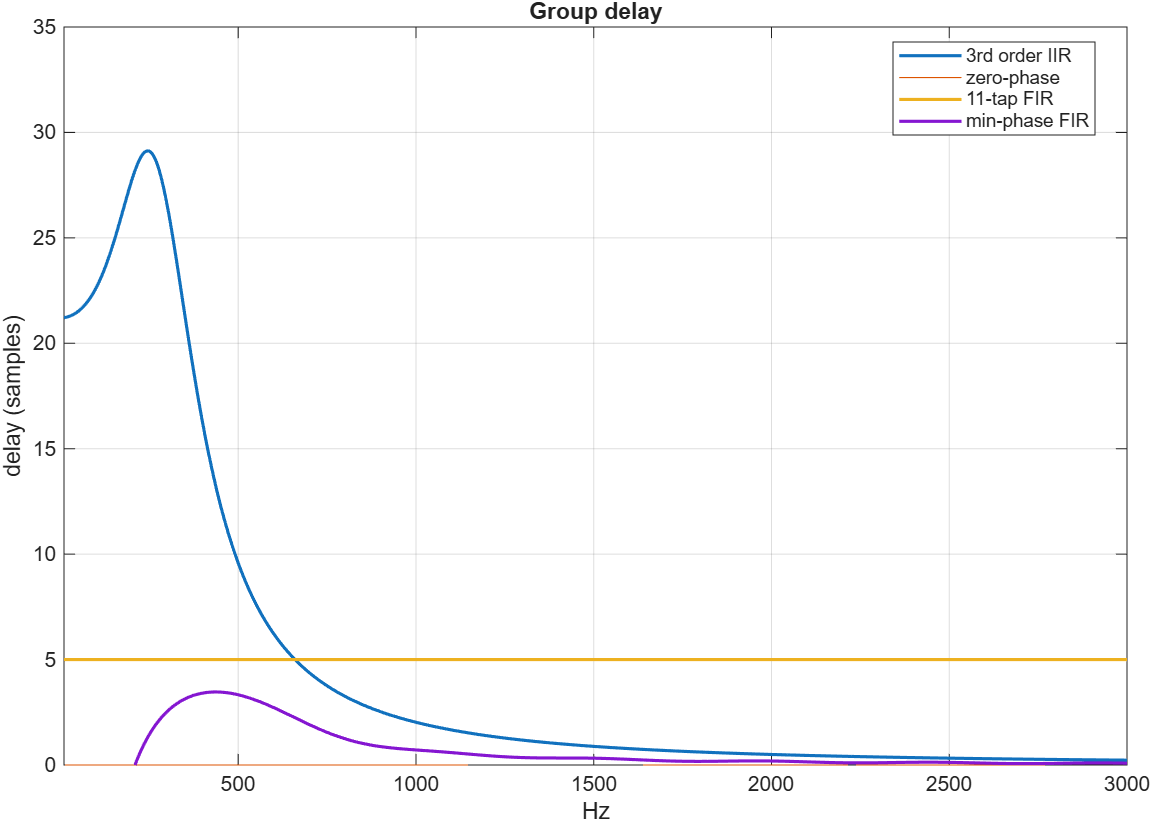
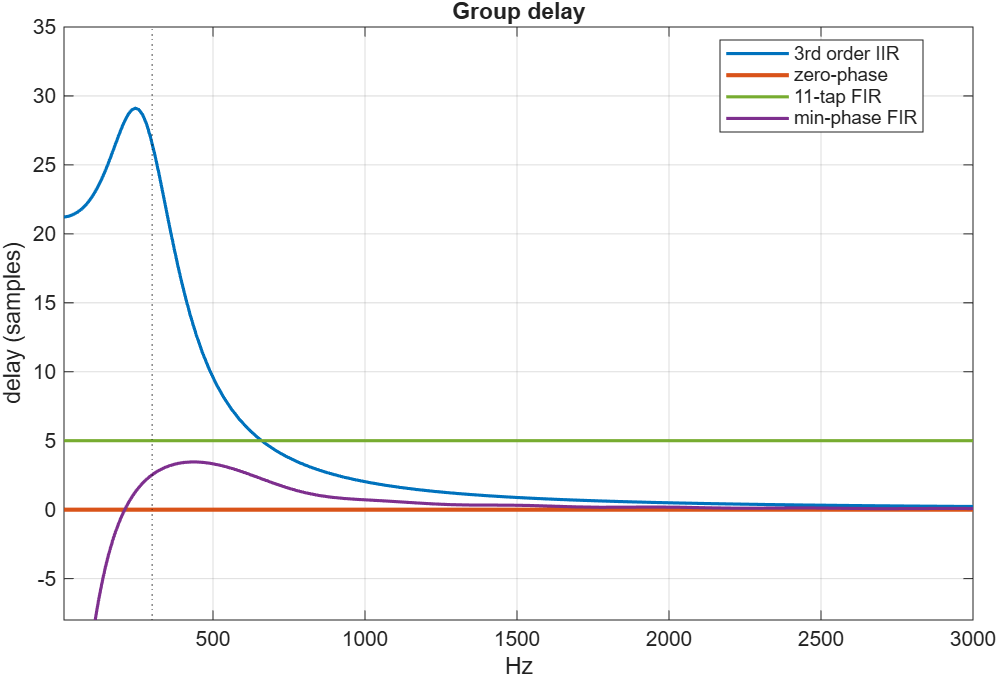
Add files via upload

diff --git a/filter/filt_comp.m b/filter/filt_comp.m
@@ -1,205 +1,193 @@
-% Zero-phase (filtfilt) vs causal Butterworth high-pass: impulse response
+% Comparison of high-pass filters: 3rd-order causal IIR, zero-phase (filtfilt),
+% 11-tap linear-phase FIR, and minimum-phase FIR.
+% All frequency responses (magnitude, phase, group delay) are MEASURED with
+% stepped-sine inputs: a sinusoid is passed through each filter and the output
+% amplitude and phase are compared with the input.
+
 fs     = 20000;      % sampling rate (Hz)
 fc     = 300;        % high-pass cutoff (Hz)
-order  = 2;          % Butterworth order
-order1 = 3;
-thresh = 2*1e-2;       % settle threshold (fraction of peak)
+order1 = 3;          % Butterworth order
+thresh = 2e-2;       % settle threshold (fraction of peak)
 
-Wn = fc/(fs/2);                        % cutoff normalized to Nyquist (MATLAB convention)
-%[b,a] = butter(order, Wn, 'high');     % 2rd-order Butterworth high-pass
+Wn = fc/(fs/2);                         % cutoff normalized to Nyquist
 [d,c] = butter(order1, Wn, 'high');     % 3rd-order Butterworth high-pass
-m  = fs + 1;                         % center index
-imp  = zeros(2*fs+1,1);  imp(m) = 1;           % unit impulse at the CENTER
 
-%causal 2nd and 3rd order and min-phase filters
-%h_causal = filter(b, a, imp);      % one-directional (causal) response
-h1_casual = filter(d, c, imp);
-h_ff = filtfilt(d, c, imp);   % zero-phase (kilosort, == scipy filtfilt)
-t = ((1:length(imp)) - m)/fs;     % samples relative to impulse (0 = impulse)
+% ---- impulse in a long zero buffer, impulse at the center ----
+m   = fs + 1;                           % center index
+imp = zeros(2*fs+1,1);  imp(m) = 1;
+t   = ((1:length(imp))' - m)/fs;        % time (s), t = 0 at the impulse
 
-% ---- Short linear-phase FIR (11 taps) ----
-Ntaps = 11;
-h_short = fir1(Ntaps-1, Wn, 'high');      % linear-phase FIR high-pass, 11 taps
-t_short = (0:numel(h_short)-1) / fs;   % 11 taps, centered
+h1_causal = filter(d, c, imp);          % 3rd-order causal IIR
+h_ff      = filtfilt(d, c, imp);        % zero-phase (forward-backward)
 
-% ---- Minimum-phase FIR (same magnitude as a longer FIR) ----
+% ---- short linear-phase FIR (11 taps) ----
+Ntaps   = 11;
+h_short = fir1(Ntaps-1, Wn, 'high');
+t_short = (0:numel(h_short)-1)/fs;
+
+% ---- minimum-phase FIR (from an 85-tap linear-phase design) ----
 Nlong = 85;
 h_lin = fir1(Nlong-1, Wn, 'high');
-% Convert to minimum phase
-h_min = firminphase(h_lin);  
-t_min = (0:numel(h_min)-1) / fs;            % 41 taps, starts at 0
+h_min = firminphase(h_lin);
+t_min = (0:numel(h_min)-1)/fs;
 
-% calculating the Magnitude and Phase of filtfilt by sinusoid inputs 
-ftest = logspace(1, log10(fs/2), 40);   % 40 test frequencies, 10 Hz .. Nyquist
-gain_ff  = zeros(size(ftest));
-phase_ff = zeros(size(ftest));
+% ---- plot colors (one per filter, used in every figure) ----
+cIIR = [0.000 0.447 0.741];   % blue
+cZP  = [0.850 0.325 0.098];   % red-orange
+cFIR = [0.466 0.674 0.188];   % green
+cMIN = [0.494 0.184 0.556];   % purple
 
-for k = 1:numel(ftest)
-    f0 = ftest(k);
-    Ncyc = 50;
-    L  = round(Ncyc*fs/f0);   % pick a whole number of samples (approx 50 cycles)
-    f0 = Ncyc*fs/L;           % now RECOMPUTE f0 so it's EXACTLY Ncyc cycles in L samples
-    n  = (0:L-1);         % 50 cycles of this frequency
-    x  = sin(2*pi*f0*n/fs);              % input sine
-    y  = filtfilt(d, c, x);              % output
+%% ===== Measured frequency responses (stepped-sine inputs) =====
+ftest = logspace(1, log10(0.95*fs/2), 150);  % 10 Hz .. just below Nyquist
+Ncyc  = 50;      % cycles per test tone
+Lmin  = 2000;    % minimum tone length (samples), >> any filter transient
 
-    mid = round(numel(n)/4) : round(3*numel(n)/4);   % keep middle half only
-    nn = n(mid);
-    C  = [cos(2*pi*f0*nn/fs).', sin(2*pi*f0*nn/fs).'];
-    cx = C \ x(mid).';        % fit input   -> [a; b]
-    cy = C \ y(mid).';        % fit output
-    px = cx(1) - 1j*cx(2);    % input phasor
-    py = cy(1) - 1j*cy(2);    % output phasor
-    gain_ff(k)  = abs(py)/abs(px);
-    phase_ff(k) = angle(py/px)*180/pi;
-end
+[g_iir, p_iir, f_iir] = measure_freq_response(@(x) filter(d,c,x),       fs, ftest, Ncyc, Lmin);
+[g_ff,  p_ff,  f_ff ] = measure_freq_response(@(x) filtfilt(d,c,x),     fs, ftest, Ncyc, Lmin);
+[g_fir, p_fir, f_fir] = measure_freq_response(@(x) filter(h_short,1,x), fs, ftest, Ncyc, Lmin);
+[g_min, p_min, f_min] = measure_freq_response(@(x) filter(h_min,1,x),   fs, ftest, Ncyc, Lmin);
 
-%filtfilt group delay
-phi = unwrap(phase_ff*pi/180); % back to radians, unwrapped
-gd_meas = -(fs/(2*pi)) * diff(phi)./diff(ftest);   % group delay in samples
-fmid    = (ftest(1:end-1)+ftest(2:end))/2;         % midpoint frequencies
+% Phase is only defined modulo 360 deg, so choose a reference:
+%  - IIR and min-phase FIR: passband (highest frequency) anchored to 0 deg
+%  - zero-phase and linear-phase FIR: lowest frequency anchored to its
+%    principal value (their phase starts near 0 deg)
+p_iir = p_iir - 360*round(p_iir(end)/360);
+p_min = p_min - 360*round(p_min(end)/360);
+p_ff  = p_ff  - 360*round(p_ff(1)/360);
+p_fir = p_fir - 360*round(p_fir(1)/360);
 
-% --- frequency response ---
-% 2nd order causal
-%nfft = 4096;
-%[H, f]   = freqz(b, a, nfft, fs);          % single-pass complex response
-%mag_db  = 20*log10(abs(H));               % filter (causal) magnitude
-%phase   = unwrap(angle(H))*180/pi;        % filter phase
-%phase = phase - 360*round(phase(end)/360);
-%[gd, fg] = grpdelay(b, a, nfft, fs);       % filter group delay (samples)
+% group delay = -d(phase)/d(omega), in samples
+[gd_iir, fmid_iir] = phase_to_gd(p_iir, f_iir, fs);
+[gd_ff,  fmid_ff ] = phase_to_gd(p_ff,  f_ff,  fs);
+[gd_fir, fmid_fir] = phase_to_gd(p_fir, f_fir, fs);
+[gd_min, fmid_min] = phase_to_gd(p_min, f_min, fs);
 
-% 3rd order causal
-nfft = 4096;
-[H1, f1]   = freqz(d, c, nfft, fs);          % single-pass complex response
-mag1_db  = 20*log10(abs(H1));               % filter (causal) magnitude
-phase1   = unwrap(angle(H1))*180/pi;        % filter phase
-phase1 = phase1 - 360*round(phase1(end)/360);
-[gd1, fg1] = grpdelay(d, c, nfft, fs);       % filter group delay (samples)
+labels = {'3rd order IIR', 'zero-phase', '11-tap FIR', 'min-phase FIR'};
 
-%FIR frequency responses
-[Hf, ff] = freqz(h_short, 1, nfft, fs);     % 11-tap FIR
-[Hm, fm] = freqz(h_min, 1, nfft, fs);     % min-phase FIR
-magf_db = 20*log10(abs(Hf));
-magm_db = 20*log10(abs(Hm));
-phasef = unwrap(angle(Hf))*180/pi;
-phasef = phasef - 360*round(phasef(end)/360);
-phasem = unwrap(angle(Hm))*180/pi;
-phasem = phasem - 360*round(phasem(end)/360);
-[gdf, fgf] = grpdelay(h_short, 1, nfft, fs);
-[gdm, fgm] = grpdelay(h_min, 1, nfft, fs);
-
-%% Figure 1: Impulse Response
+%% Figure 1: Impulse response
 figure;
-%plot(t, h_causal, 'LineWidth', 1.2); hold on;
-plot(t, h1_casual, 'LineWidth', 1.2); hold on;
-plot(t, h_ff, '.-', 'LineWidth', 1.2);
-plot(t_short, h_short, '--', 'LineWidth',1.2);
-plot(t_min, h_min, '--', 'LineWidth',1.0);
-xlim( [ -0.001 0.0025 ] );
-xline(0,'k:');
-legend('3rd order IIR', 'zero-phase', '11-tap FIR', 'min-phase FIR', 'Location','best');
-xlabel( 'Time [s]' ), ylabel( 'Value' );
-title(sprintf( 'Impulse Response, %d Hz highpass, Fs = %d', fc, fs)); grid on;
+plot(t, h1_causal, 'Color', cIIR, 'LineWidth', 1.2); hold on;
+plot(t, h_ff, '.-', 'Color', cZP, 'LineWidth', 1.2);
+plot(t_short, h_short, '--o', 'Color', cFIR, 'LineWidth', 1.2, 'MarkerSize', 3);
+plot(t_min,   h_min,   '--',  'Color', cMIN, 'LineWidth', 1.0);
+xlim([-0.001 0.0025]);
+xline(0, 'k:', 'HandleVisibility', 'off');
+legend(labels, 'Location', 'best');
+xlabel('Time [s]'); ylabel('Value');
+title(sprintf('Impulse response, %d Hz high-pass, Fs = %d', fc, fs)); grid on;
 
-%% Figure 2: Bode magnitude (both)
+%% Figure 2: Bode magnitude (measured)
 figure;
-%semilogx(f, mag_db,'LineWidth',1.5); hold on;
-semilogx(f1, mag1_db,'LineWidth',1.5); hold on;
-semilogx(ftest, 20*log10(gain_ff), '.-'); grid on;
-semilogx(ff, magf_db, 'LineWidth', 1.5);
-semilogx(fm, magm_db, 'LineWidth', 1.5);
-xline(fc,':k'); yline(-3,':k');
+semilogx(f_iir, 20*log10(g_iir), 'Color', cIIR, 'LineWidth', 1.5); hold on;
+semilogx(f_ff,  20*log10(g_ff),  'Color', cZP,  'LineWidth', 1.5);
+semilogx(f_fir, 20*log10(g_fir), 'Color', cFIR, 'LineWidth', 1.5);
+semilogx(f_min, 20*log10(g_min), 'Color', cMIN, 'LineWidth', 1.5);
+xline(fc, ':k', 'HandleVisibility', 'off'); yline(-3, ':k', 'HandleVisibility', 'off');
 xlim([10 fs/2]); grid on;
 title('Bode magnitude');
 xlabel('Hz'); ylabel('|H| (dB)');
-legend('3rd order IIR', 'zero-phase', '11-tap FIR', 'min-phase FIR', 'Location','best');
+legend(labels, 'Location', 'best');
 
-%% Figure 3: Bode phase (both)
+%% Figure 3: Bode phase (measured)
 figure;
-%semilogx(f, phase,'LineWidth',1.5); hold on;
-semilogx(f1, phase1,'LineWidth',1.5); hold on;
-semilogx(ftest, phase_ff, '.-'); grid on;
-semilogx(ff, phasef, 'LineWidth', 1.5);
-semilogx(fm, phasem, 'LineWidth', 1.5);
-xline(fc,':k');
+semilogx(f_iir, p_iir, 'Color', cIIR, 'LineWidth', 1.5); hold on;
+semilogx(f_ff,  p_ff,  'Color', cZP,  'LineWidth', 1.5);
+semilogx(f_fir, p_fir, 'Color', cFIR, 'LineWidth', 1.5);
+semilogx(f_min, p_min, 'Color', cMIN, 'LineWidth', 1.5);
+xline(fc, ':k', 'HandleVisibility', 'off');
 xlim([10 fs/2]); grid on;
-title('Bode phase -');
+title('Bode phase');
 xlabel('Hz'); ylabel('phase (deg)');
-legend('3rd order IIR', 'zero-phase', '11-tap FIR', 'min-phase FIR', 'Location','best');
+legend(labels, 'Location', 'best');
 
-%% --- group delay vs frequency (the phase nonlinearity) ---
+%% Figure 4: Group delay (measured)
 figure;
-%plot(fg, gd, 'LineWidth',1.5); hold on;
-plot(fg1, gd1, 'LineWidth', 1.5); hold on;
-plot(fmid, gd_meas);
-plot(fgf, gdf, 'LineWidth', 1.5);
-plot(fgm, gdm, 'LineWidth', 1.5);
+plot(fmid_iir, gd_iir, 'Color', cIIR, 'LineWidth', 1.5); hold on;
+plot(fmid_ff,  gd_ff,  'Color', cZP,  'LineWidth', 2.0);
+plot(fmid_fir, gd_fir, 'Color', cFIR, 'LineWidth', 1.5);
+plot(fmid_min, gd_min, 'Color', cMIN, 'LineWidth', 1.5);
+xline(fc, ':k', 'HandleVisibility', 'off');
 xlim([10 3000]);
-ylim([0 35]);  
+ylim([-8 35]);      % below zero so the min-phase FIR and zero-phase line are visible
 grid on;
 title('Group delay');
 xlabel('Hz'); ylabel('delay (samples)');
-legend('3rd order IIR', 'zero-phase', '11-tap FIR', 'min-phase FIR', 'Location','best');
+legend(labels, 'Location', 'best');
 
+%% ===== IIR: poles, zeros, transfer function =====
+[z,p,k] = tf2zpk(d, c);
 
-%% ===== IIR: derive poles, zeros, transfer function =====
-N = 3;
-[b,a] = butter(N, Wn, 'high');
-[z,p,k] = tf2zpk(b,a);              % zeros, poles, gain
-
-fprintf('\n===== IIR Butterworth, order %d =====\n', N);
+fprintf('\n===== IIR Butterworth, order %d =====\n', order1);
 fprintf('Number of poles: %d,  Number of zeros: %d\n', numel(p), numel(z));
 fprintf('Zeros (z-plane):\n');   disp(z);
 fprintf('  |zeros| = '); fprintf('%.4f ', abs(z)); fprintf('\n');
 fprintf('Poles (z-plane):\n');   disp(p);
 fprintf('  |poles| = '); fprintf('%.4f ', abs(p)); fprintf(' (stable if <1)\n');
 fprintf('Gain k = %.5f\n', k);
+fprintf('b (numerator)  : '); fprintf('%.5f ', d); fprintf('\n');
+fprintf('a (denominator): '); fprintf('%.5f ', c); fprintf('\n');
 
-% numerator/denominator coefficients (the transfer function H(z))
-fprintf('b (numerator)  : '); fprintf('%.5f ', b); fprintf('\n');
-fprintf('a (denominator): '); fprintf('%.5f ', a); fprintf('\n');
-
-% pretty-print H(z) symbolically if Symbolic Toolbox is available
-if exist('sym','file')
+if exist('sym', 'file')
     syms z_
-    num = poly2sym(b, z_);         % builds b(1)*z^n + ...  (positive powers)
-    den = poly2sym(a, z_);
-    Hz  = num/den;
+    Hz = poly2sym(d, z_) / poly2sym(c, z_);
     fprintf('H(z) = \n'); pretty(vpa(Hz, 5));
 end
 
-%% ===== Settling time (samples) — all filters except the 11-tap FIR =====
+%% ===== Settling time (samples) =====
 % Settle = last sample whose |h| exceeds thresh*peak.
-% Causal filters (IIR, min-phase): one-sided settle, measured from their start.
-% Zero-phase (filtfilt): symmetric, so report pre-impulse (lookahead), post, and total.
-
 fprintf('\n===== Settling time (thresh = %.0e of peak, fs = %d) =====\n', thresh, fs);
 
-% --- helper: one-sided settle for a causal response that starts at index i0 ---
-one_sided_settle = @(h, i0) ...
-    ( find(abs(h) > thresh*max(abs(h)), 1, 'last') - i0 + 1 );
+one_sided_settle = @(h, i0) (find(abs(h) > thresh*max(abs(h)), 1, 'last') - i0 + 1);
 
-% --- 2nd-order causal IIR (h_causal): impulse is at index m, response starts there ---
-%s2 = one_sided_settle(h_causal, m);
-%fprintf('2nd-order IIR (causal)   : %4d samples = %.3f ms (one-sided)\n', ...
-%    s2, s2/fs*1000);
+s3 = one_sided_settle(h1_causal, m);
+fprintf('3rd-order IIR (causal)   : %4d samples = %.3f ms (one-sided)\n', s3, s3/fs*1000);
 
-% --- 3rd-order causal IIR (h1_casual) ---
-s3 = one_sided_settle(h1_casual, m);
-fprintf('3rd-order IIR (causal)   : %4d samples = %.3f ms (one-sided)\n', ...
-    s3, s3/fs*1000);
-
-% --- min-phase FIR (h_min): causal, starts at its first tap (index 1) ---
 smin = one_sided_settle(h_min, 1);
-fprintf('min-phase FIR (causal)   : %4d samples = %.3f ms (one-sided)\n', ...
-    smin, smin/fs*1000);
+fprintf('min-phase FIR (causal)   : %4d samples = %.3f ms (one-sided)\n', smin, smin/fs*1000);
 
-% --- zero-phase filtfilt (h_ff): symmetric about the impulse at index m ---
 pk_ff = max(abs(h_ff));
-idx   = find(abs(h_ff) > thresh*pk_ff);   % all samples above threshold
-pre   = m - idx(1);          % samples BEFORE impulse  -> lookahead
-post  = idx(end) - m;        % samples AFTER impulse
+idx   = find(abs(h_ff) > thresh*pk_ff);
+pre   = m - idx(1);          % samples before the impulse (lookahead)
+post  = idx(end) - m;        % samples after the impulse
 tot   = idx(end) - idx(1) + 1;
 fprintf('zero-phase (filtfilt)    : total=%4d samples = %.3f ms\n', tot, tot/fs*1000);
 fprintf('                           lookahead(pre)=%d, post=%d samples\n', pre, post);
-fprintf('   -> buffer length = %d, lookahead = %d\n', tot, pre);
+
+%% ===== Local functions (must stay at the end of the script) =====
+function [gain, phase_deg, fmeas] = measure_freq_response(filtfun, fs, ftest, Ncyc, Lmin)
+% Stepped-sine measurement of gain and phase.
+% filtfun : handle applied to a column vector, e.g. @(x) filter(b,a,x)
+% Ncyc    : cycles per test tone
+% Lmin    : minimum tone length in samples (must be >> filter transient)
+    nf    = numel(ftest);
+    gain  = zeros(1, nf);
+    ph    = zeros(1, nf);
+    fmeas = zeros(1, nf);
+    for k = 1:nf
+        f0 = ftest(k);
+        nc = max(Ncyc, ceil(Lmin*f0/fs));   % enough cycles to reach Lmin samples
+        L  = round(nc*fs/f0);
+        f0 = nc*fs/L;                       % exact integer number of cycles in L
+        n  = (0:L-1)';
+        x  = sin(2*pi*f0*n/fs);
+        y  = filtfun(x);
+
+        mid = round(L/4)+1 : round(3*L/4);  % middle half, skips the start-up transient
+        C   = [cos(2*pi*f0*n(mid)/fs), sin(2*pi*f0*n(mid)/fs)];
+        cx  = C \ x(mid);
+        cy  = C \ y(mid);
+        px  = cx(1) - 1j*cx(2);             % input phasor
+        py  = cy(1) - 1j*cy(2);             % output phasor
+
+        gain(k)  = abs(py/px);
+        ph(k)    = angle(py/px);
+        fmeas(k) = f0;                      % frequency actually tested
+    end
+    phase_deg = unwrap(ph)*180/pi;
+end
+
+function [gd, fmid] = phase_to_gd(phase_deg, f, fs)
+% Group delay (samples) from phase (deg) sampled at frequencies f (Hz).
+    gd   = -(fs/(2*pi)) * diff(phase_deg*pi/180) ./ diff(f);
+    fmid = (f(1:end-1) + f(2:end))/2;
+end
